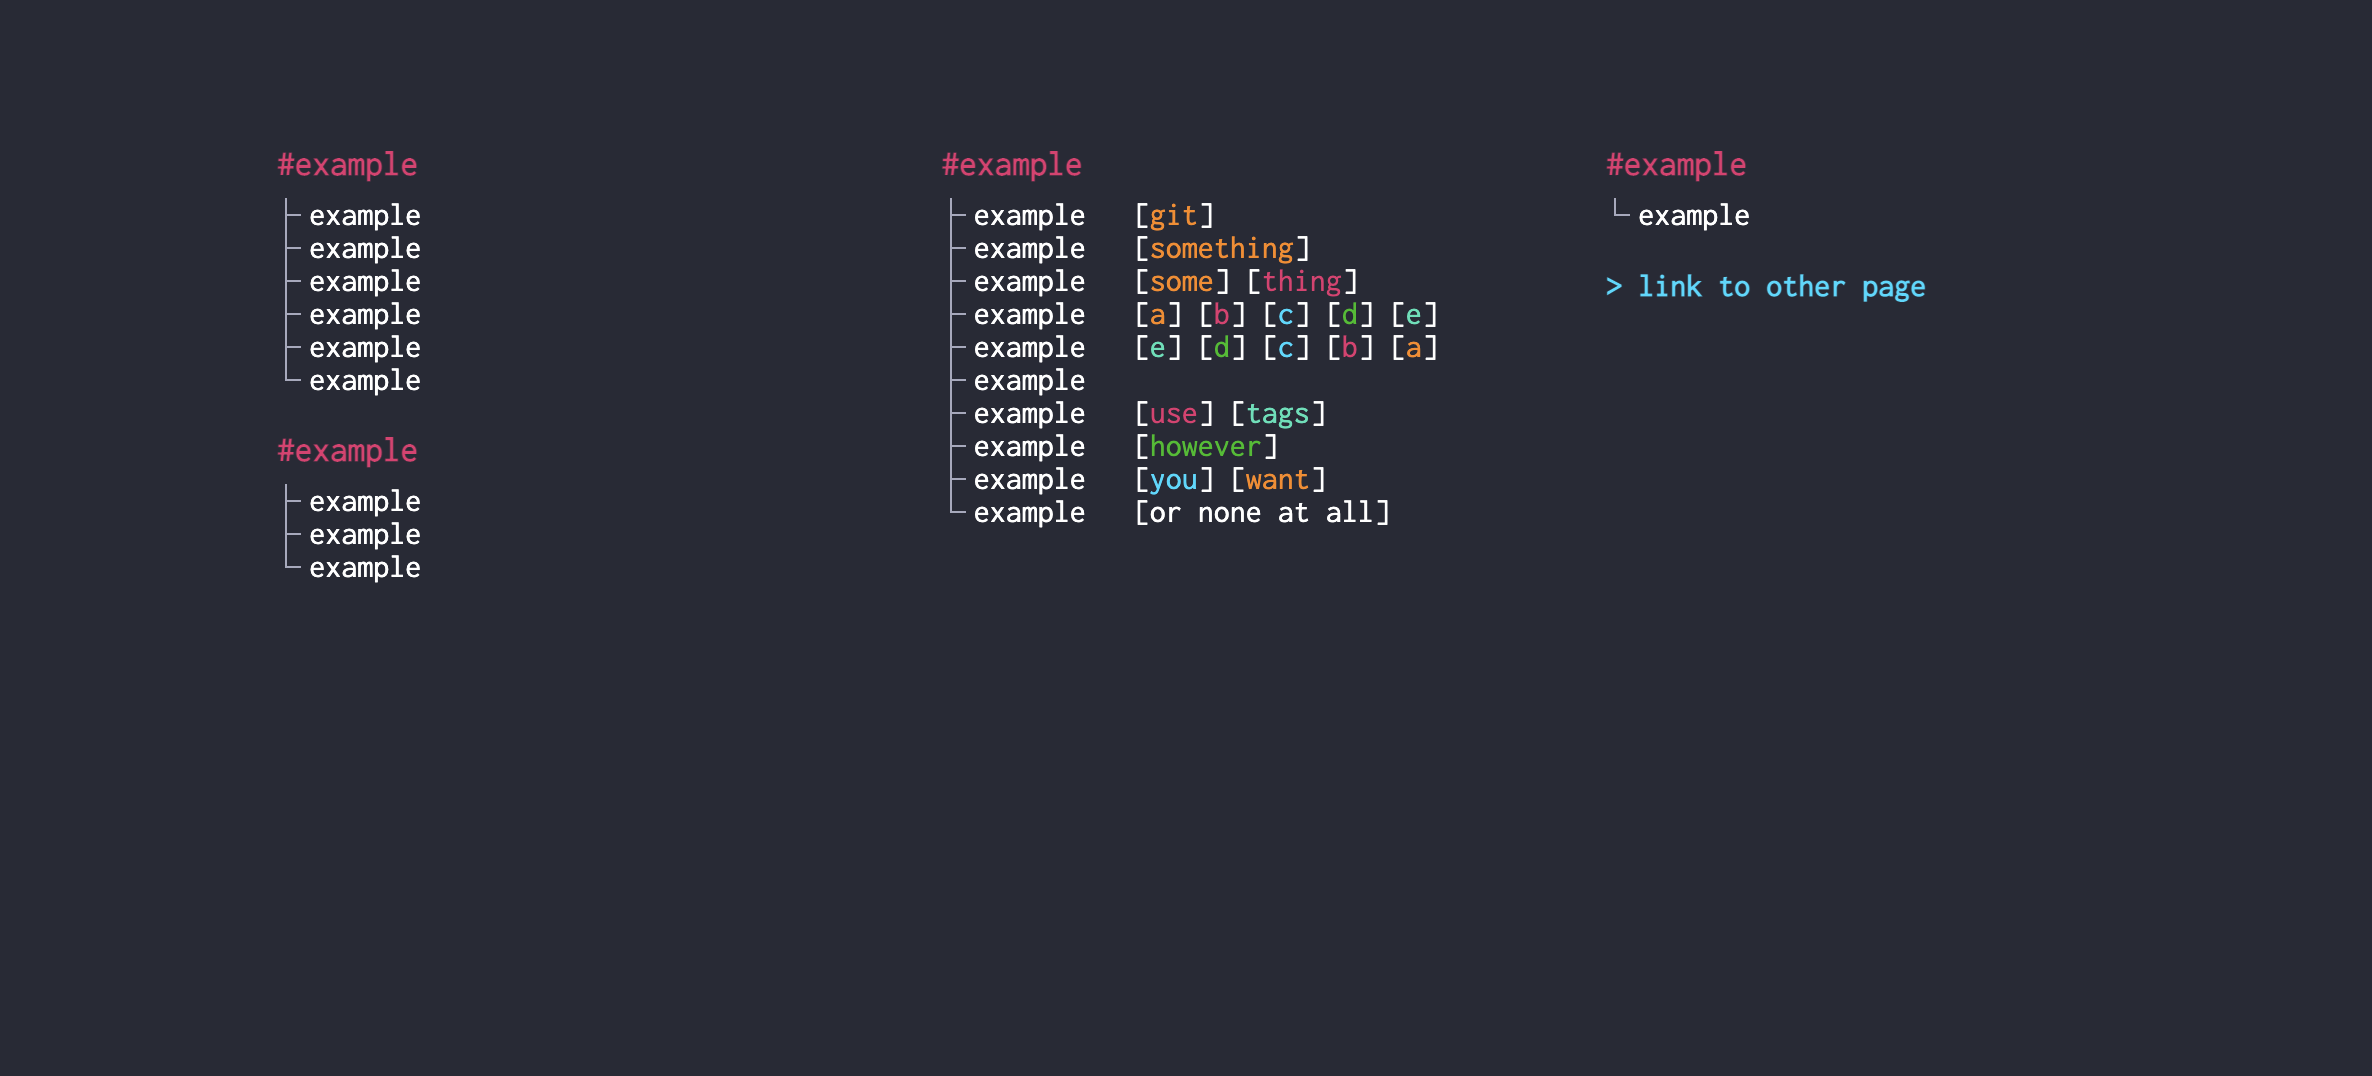
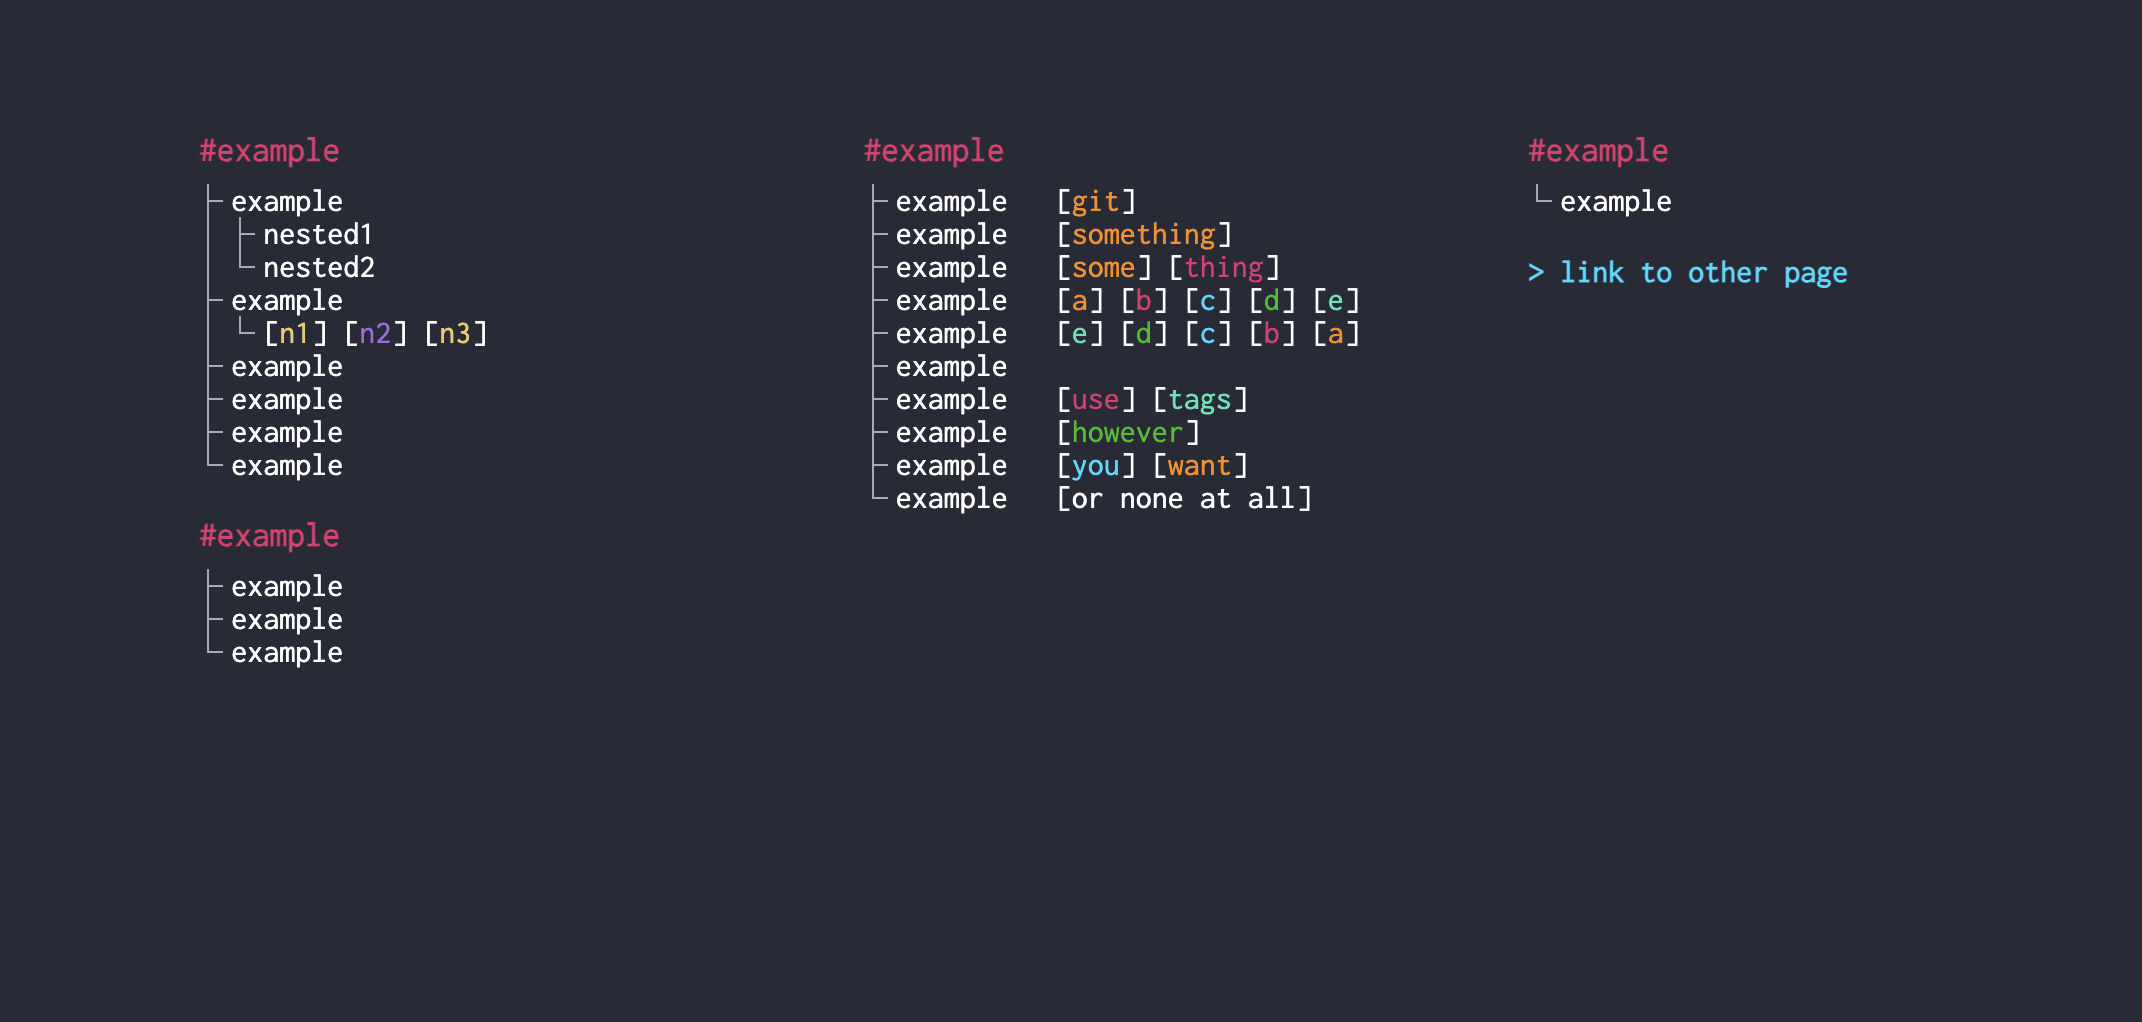
Nested and recursive links

diff --git a/script/script.js b/script/script.js
@@ -4,24 +4,40 @@ const Main = (() => {
 	const init = () => {
 		const contentArea = document.getElementById("content");
 		contentArea.innerHTML = Data.map(col => `<div class="column">
-			${(col.rows || []).map(({title, items, href}) =>
-				href
-				? onlyLink(href, title)
-				: blockWithList(title, items))
-			.join("")}
+			${(col.rows || []).map(({title, items, href, color}) =>
+				`${h3(title, href, color)}
+				 ${list(items)}`
+			).join("")}
 		</div>`).join("");
 	}
 
-	const onlyLink = (href, title) => `<h3><a class="blue" href="${href}">${title}</a></h3>`;
-	const blockWithList = (title, items) => {
-		return `<h3>${title}</h3>
-				<ul class="row">
-					${(items || []).map(({name, href, tags}) => `<li>
-						<a href="${href}">${name}</a>&nbsp&nbsp${(tags || []).map(({name, color, href}) => `
-						[<a class="${color}" href="${href}">${name}</a>]`).join(" ")}
-					</li>`).join("")}
-				</ul>`;
-	};
+	const h3 = (title, href, color="blue") =>
+		href
+		? `<h3><a style="color:var(--${color})" href="${href}">${title}</a></h3>`
+		: `<h3>${title}</h3>`;
+
+	const list = (items) =>
+		items
+		? `<ul>
+			${items.map(({name, href, tags, items}) => `<li>
+				${link(name, href)}
+				${taglist(tags)}
+				${list(items)}
+			</li>`).join("")}
+		</ul>`
+		: "";
+
+	const link = (name, href) =>
+		name
+		? `<a href="${href}">${name}</a>&nbsp&nbsp`
+		: "";
+
+	const taglist = (tags) =>
+		tags
+		? tags
+			.map(({name, color, href}) => `[<a style="color:var(--${color})" href="${href}">${name}</a>]`)
+			.join(" ")
+		: "";
 
 	return {
 		init

diff --git a/css/style.css b/css/style.css
@@ -12,9 +12,11 @@
     --pink: #e53170;
     --red: #f25f4c;
     --orange: #ff8906;
-    --mint: #37e2b7;
+    --yellow: #f0c863;
     --green: #00bf01;
+    --mint: #37e2b7;
     --blue: #04d9ff;
+    --purple: #a76ae0;
     --branch: 1px solid #a7a9be;
 }
 
@@ -26,7 +28,7 @@ body {
     height: 100%;
     background-color: var(--background);
     font-family: 'Inconsolata', monospace;
-    color: #FFF;
+    color: var(--white);
     font-size: 100%;
 }
 
@@ -49,14 +51,10 @@ h3 {
     height: 100px;
 }
 
-.column > ul {
-    margin: 0;
-    padding-left: 1rem;
-}
-
 ul {
+    margin: 0;
     list-style: none;
-    padding-left: 2.5rem;
+    padding-left: 1rem;
 }
 
 li {
@@ -71,13 +69,14 @@ a {
     font-size: 1rem;
 }
 
-li:before, li:after {
+li::before, li::after {
     content: "";
     position: absolute;
     left: -0.75rem;
+    top: 0rem;
 }
 
-li:before {
+li::before {
     content: "";
     position: absolute;
     left: -0.75rem;
@@ -86,7 +85,7 @@ li:before {
     border-top: var(--branch);
 }
 
-li:after {
+li::after {
     border-left: var(--branch);
     height: 100%;
 }
@@ -94,28 +93,7 @@ li:last-child::after {
     height: 0.5rem;
 }
 
-a:hover,
-a:focus {
+a:hover, a:focus {
     color: var(--background);
     background: var(--white);
-}
-
-.blue {
-    color: var(--blue);
-}
-
-.orange {
-    color: var(--orange);
-}
-
-.mint {
-    color: var(--mint);
-}
-
-.pink {
-    color: var(--pink);
-}
-
-.green {
-    color: var(--green);
 }

diff --git a/script/data.js b/script/data.js
@@ -4,11 +4,37 @@ const Data = [{
 		items: [
 			{
 				"name": "example",
-				"href": "https://example.com/"
+				"href": "https://example.com/",
+				"items": [
+					{
+						"name": "nested1",
+						"href": "https://example.com/"
+					},
+					{
+						"name": "nested2",
+						"href": "https://example.com/"
+					}]
 			},
 			{
 				"name": "example",
-				"href": "https://example.com/"
+				"href": "https://example.com/",
+				"items": [
+					{
+						"tags": [{
+							"name": "n1",
+							"color": "yellow",
+							"href": "http://github.com/example"
+						}, {
+							"name": "n2",
+							"color": "purple",
+							"href": "http://github.com/example"
+						}, {
+							"name": "n3",
+							"color": "yellow",
+							"href": "http://github.com/example"
+						}]
+					}
+				]
 			},
 			{
 				"name": "example",

diff --git a/CHANGELOG.md b/CHANGELOG.md
@@ -7,6 +7,25 @@ and this project adheres to [Semantic Versioning](https://semver.org/spec/v2.0.0
 
 ## [Unreleased]
 
+## [1.1.0] - 2023-11-20
+
+### Added
+
+- Allow nested links
+- Allow links to don't have any name, just tags
+- New colors
+
+### Changed
+
+- Using styles instead of classes to avoid duplicating class names.
+- Script refactoring
+- Removed unused classes and styles
+
+### Fixed
+
+- Typo in examples.
+- Font was not being loaded when installed with the self-hosted extension.
+
 ## [1.0.0] - 2023-05-27
 
 ### Added
